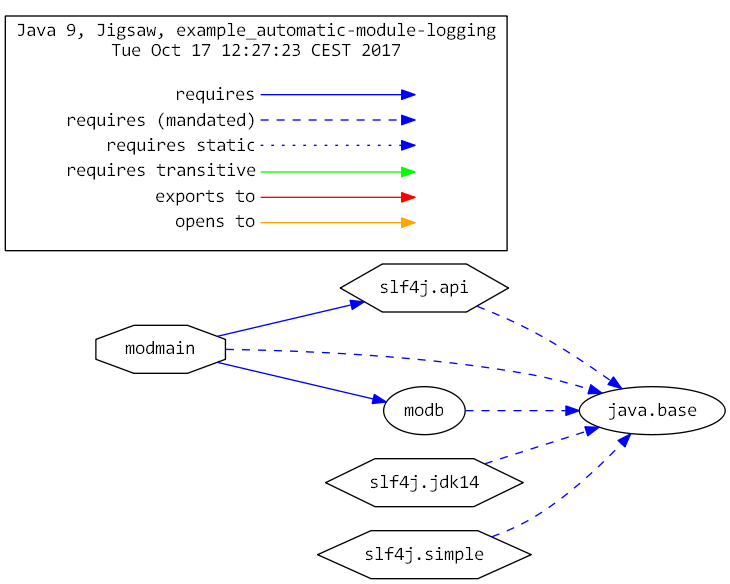
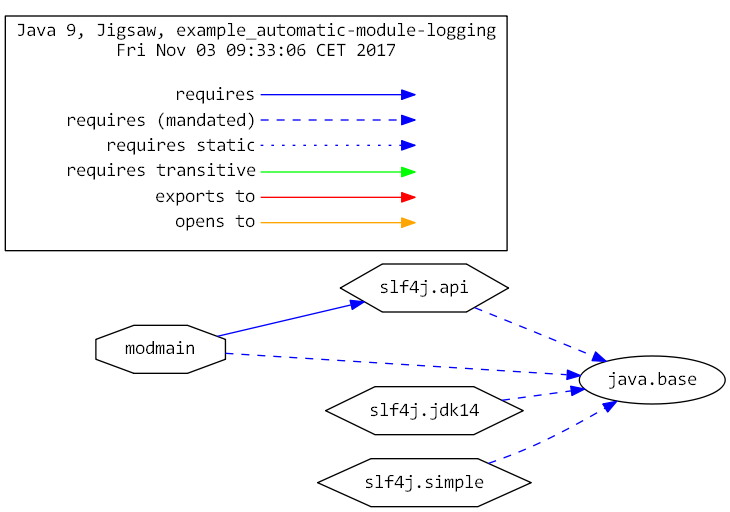
Cleanup, Eclipse dependencies, better comments and explanations

diff --git a/jigsaw-examples/example_automatic-module-logging/src/modmain/pkgmain/Main.java b/jigsaw-examples/example_automatic-module-logging/src/modmain/pkgmain/Main.java
@@ -3,16 +3,11 @@ package pkgmain;
 import org.slf4j.Logger;
 import org.slf4j.LoggerFactory;
 
-import pkgb.B;
-
 public class Main {
     public static void main(String[] args) {
-
-        Main mymain = new Main();  
-        B myb = new B();
-        System.out.println("Main: " + mymain.toString() + ", B: " + myb.doIt());
-
-        // Logging   
+        // Logging - only using the slf4j API here 
+        // (logging implementation is added via Runtime option by adding an automatic module,
+        // see libraries of the three launch files variants)
         Logger logger = LoggerFactory.getLogger(Main.class);
         logger.info("This is Main - logging.");
     }

diff --git a/jigsaw-examples/example_automatic-module-logging/src/modmain/module-info.java b/jigsaw-examples/example_automatic-module-logging/src/modmain/module-info.java
@@ -1,4 +1,3 @@
 open module modmain { 	// allow reflective access, currently used in the example_jerry-mouse
     requires slf4j.api;		// note: must not be called slf4j-api (no '-' allowed in module names)
-    requires modb;
 }

diff --git a/jigsaw-examples/example_automatic-module-logging/readme.md b/jigsaw-examples/example_automatic-module-logging/readme.md
@@ -9,7 +9,7 @@ see https://github.com/accso/java9-jigsaw-examples
 ## What is this example about?
 
 ### Modules in this example
-* modb, modmain 
+* modmain 
 * slf4j*.jar as automatic modules
 * modmain has a Main class which is started in run.sh
 
